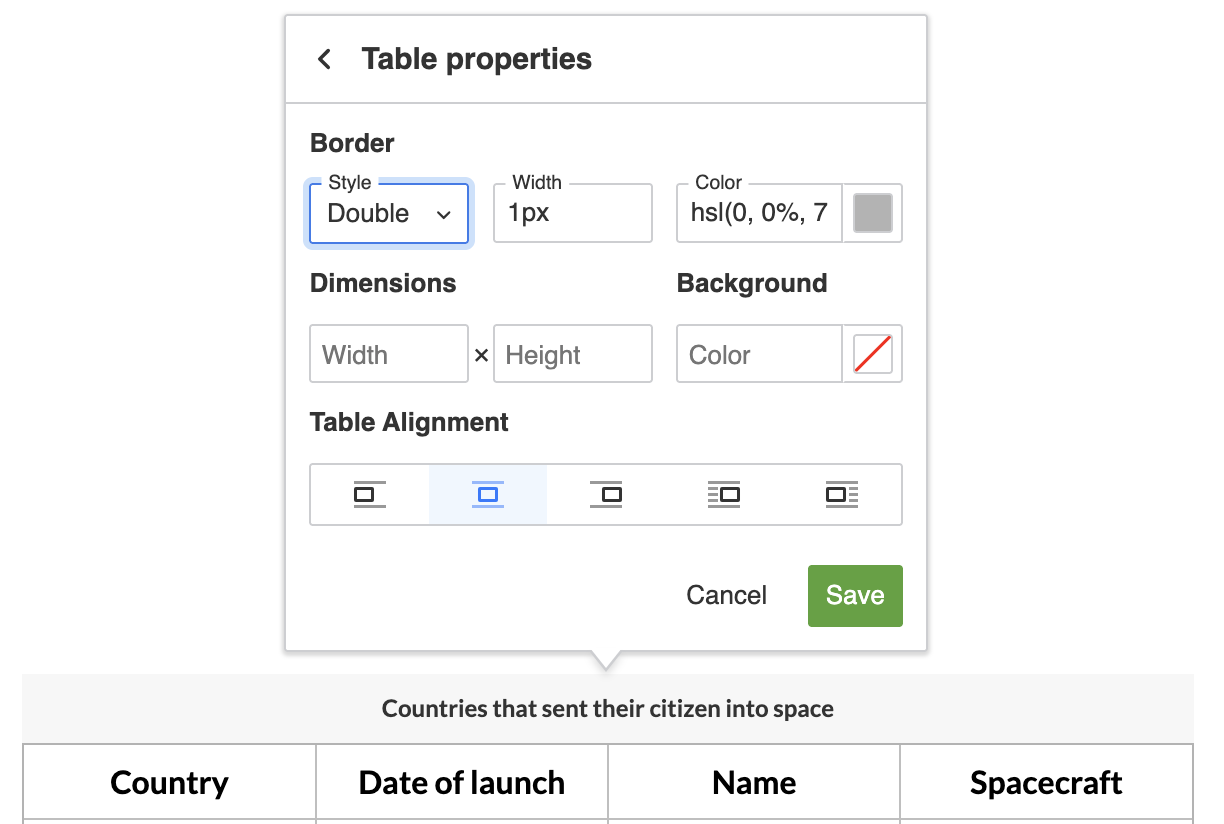
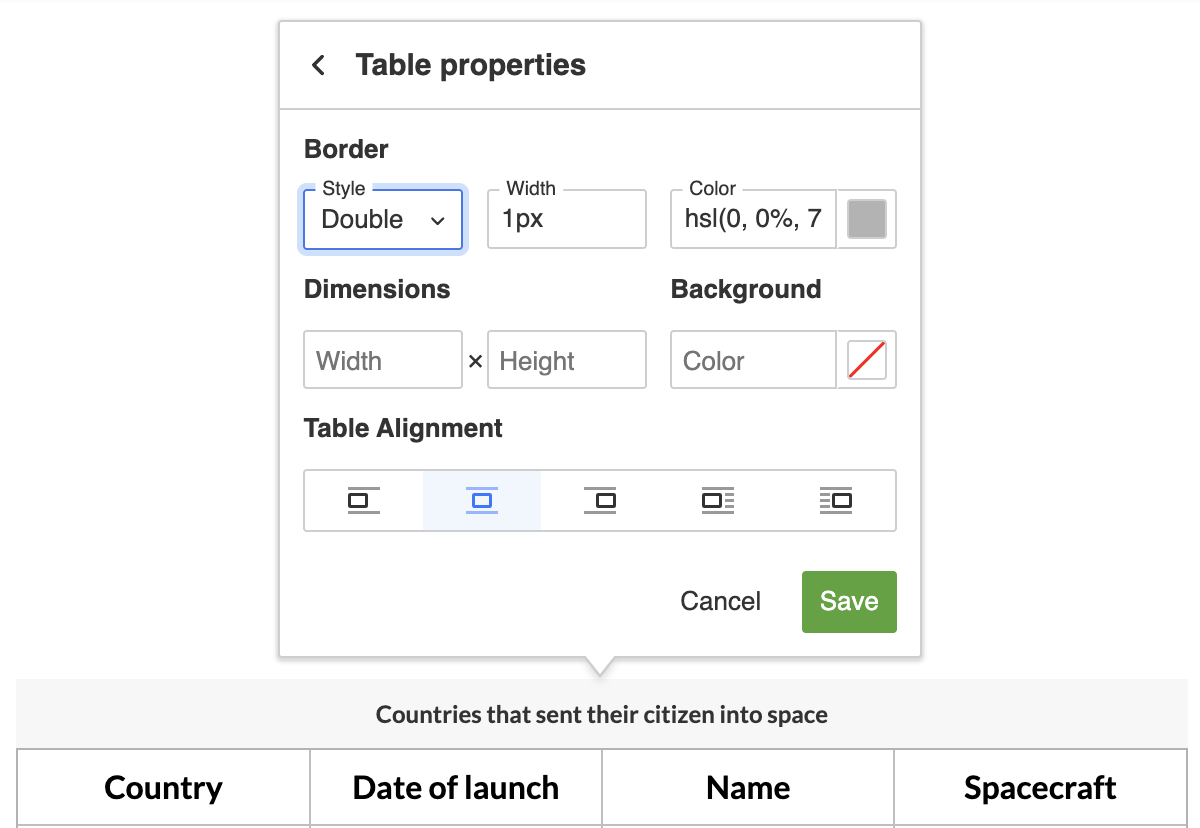
Docs: update image. [short flow]

diff --git a/packages/ckeditor5-table/docs/features/tables.md b/packages/ckeditor5-table/docs/features/tables.md
@@ -48,7 +48,7 @@ You can move tables horizontally to create a desired document layout. There are 
 * Left (block): A table aligns to the left. The table does not influence the flow of other content.
 * Right (block): A table is aligned to the right. The table does not influence the flow of other content.
 
-{@img assets/img/table-alignment-options.png 824 Table alignment options}
+{@img assets/img/table-alignment-options.png 600 Table alignment options}
 
 You can find all of those options in the [table properties balloon](#table-contextual-toolbar). The balloon displays after you click on a table. Use the [demo above](#demo) to test all those options.
 
